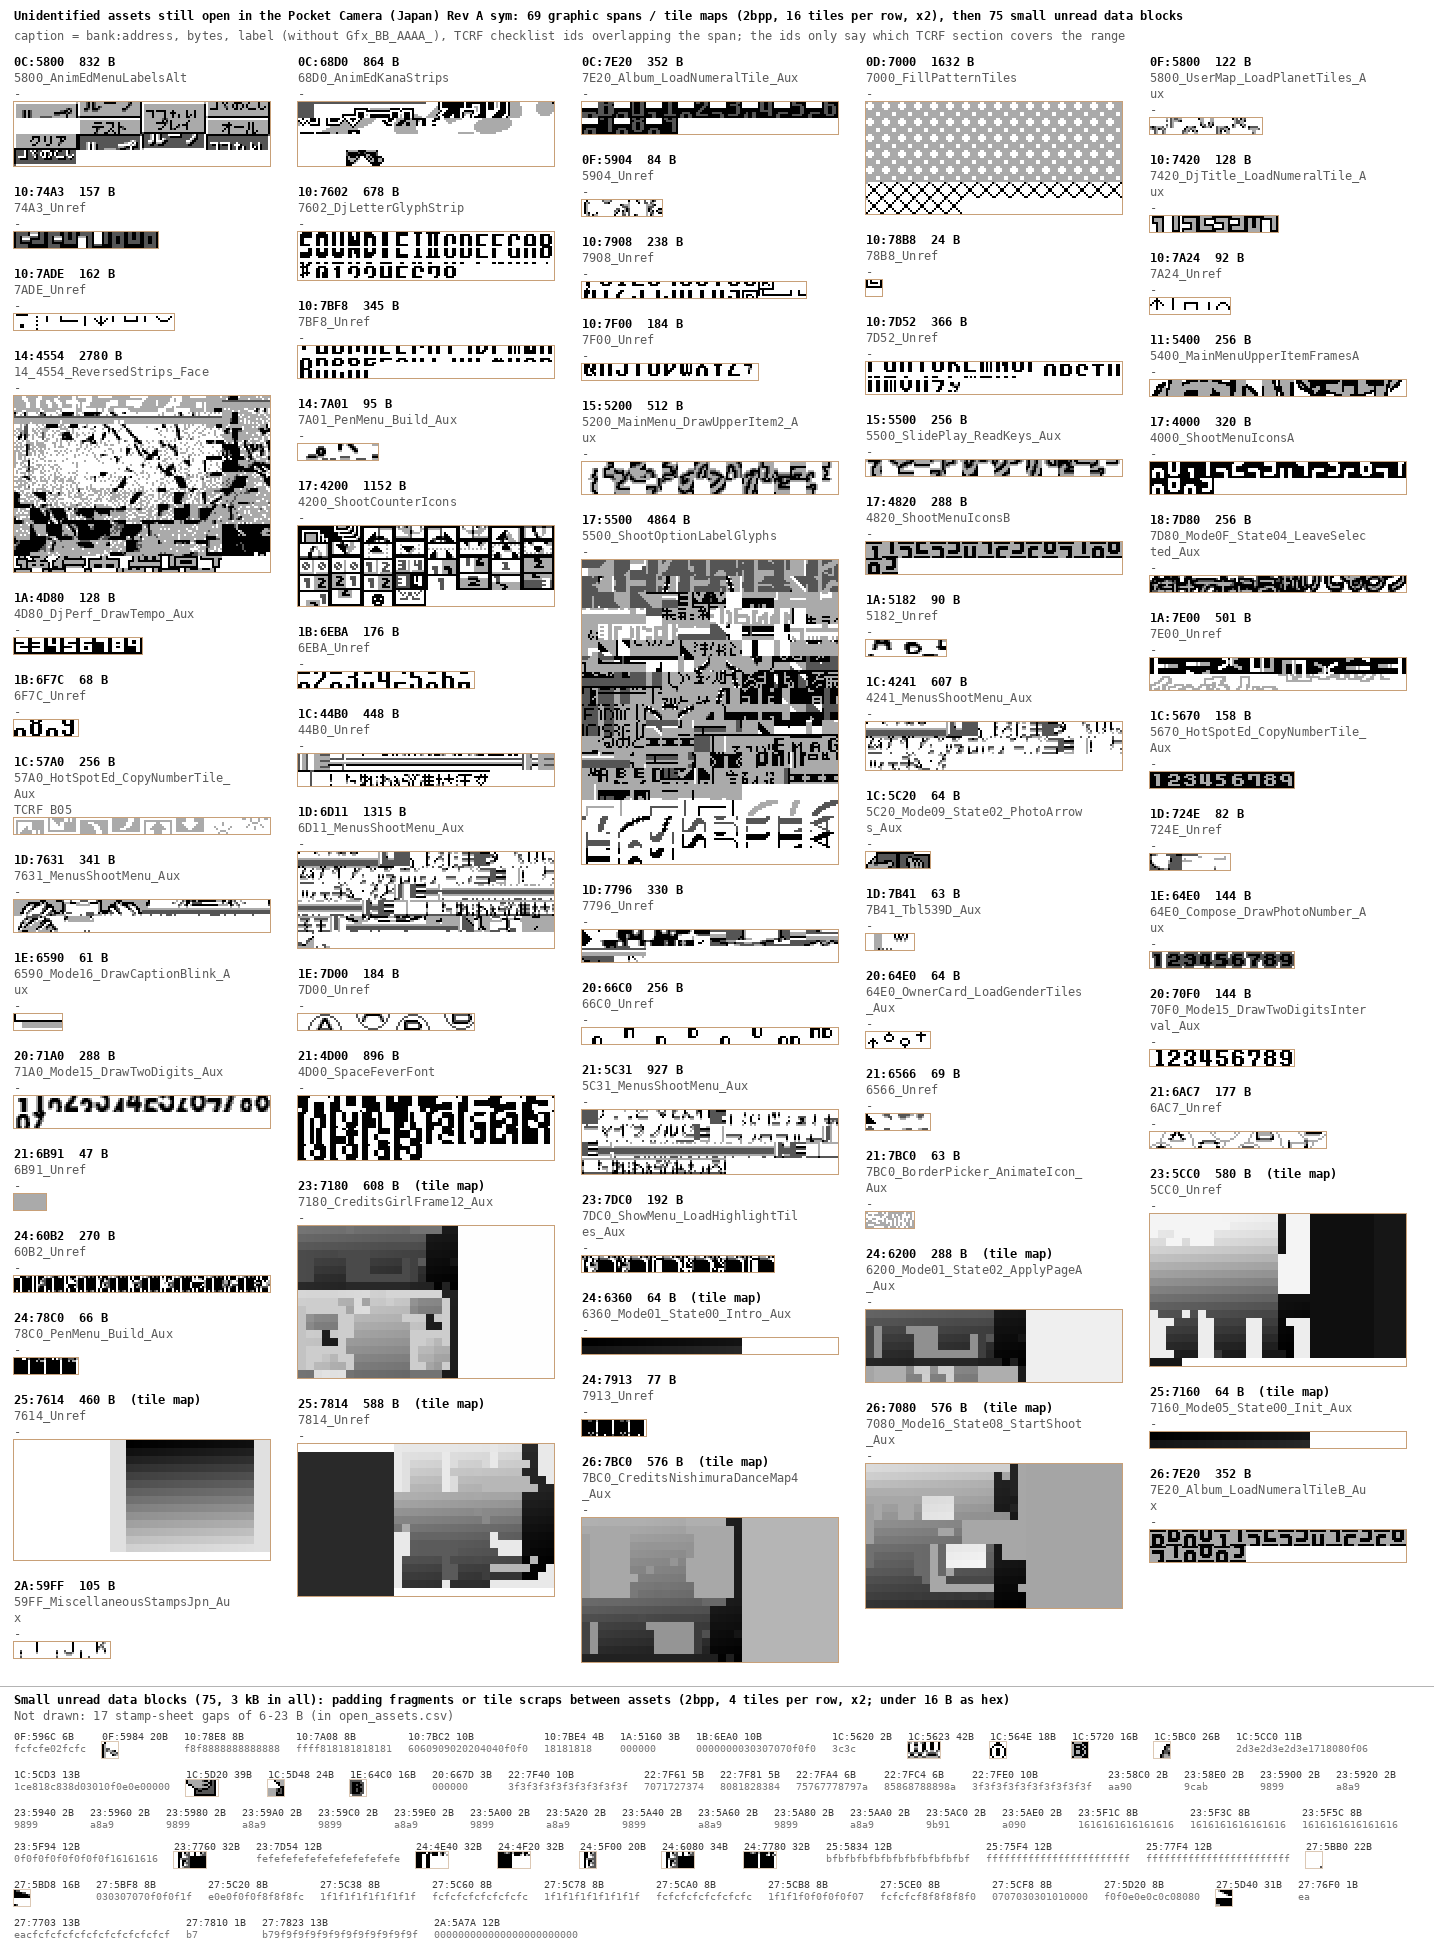
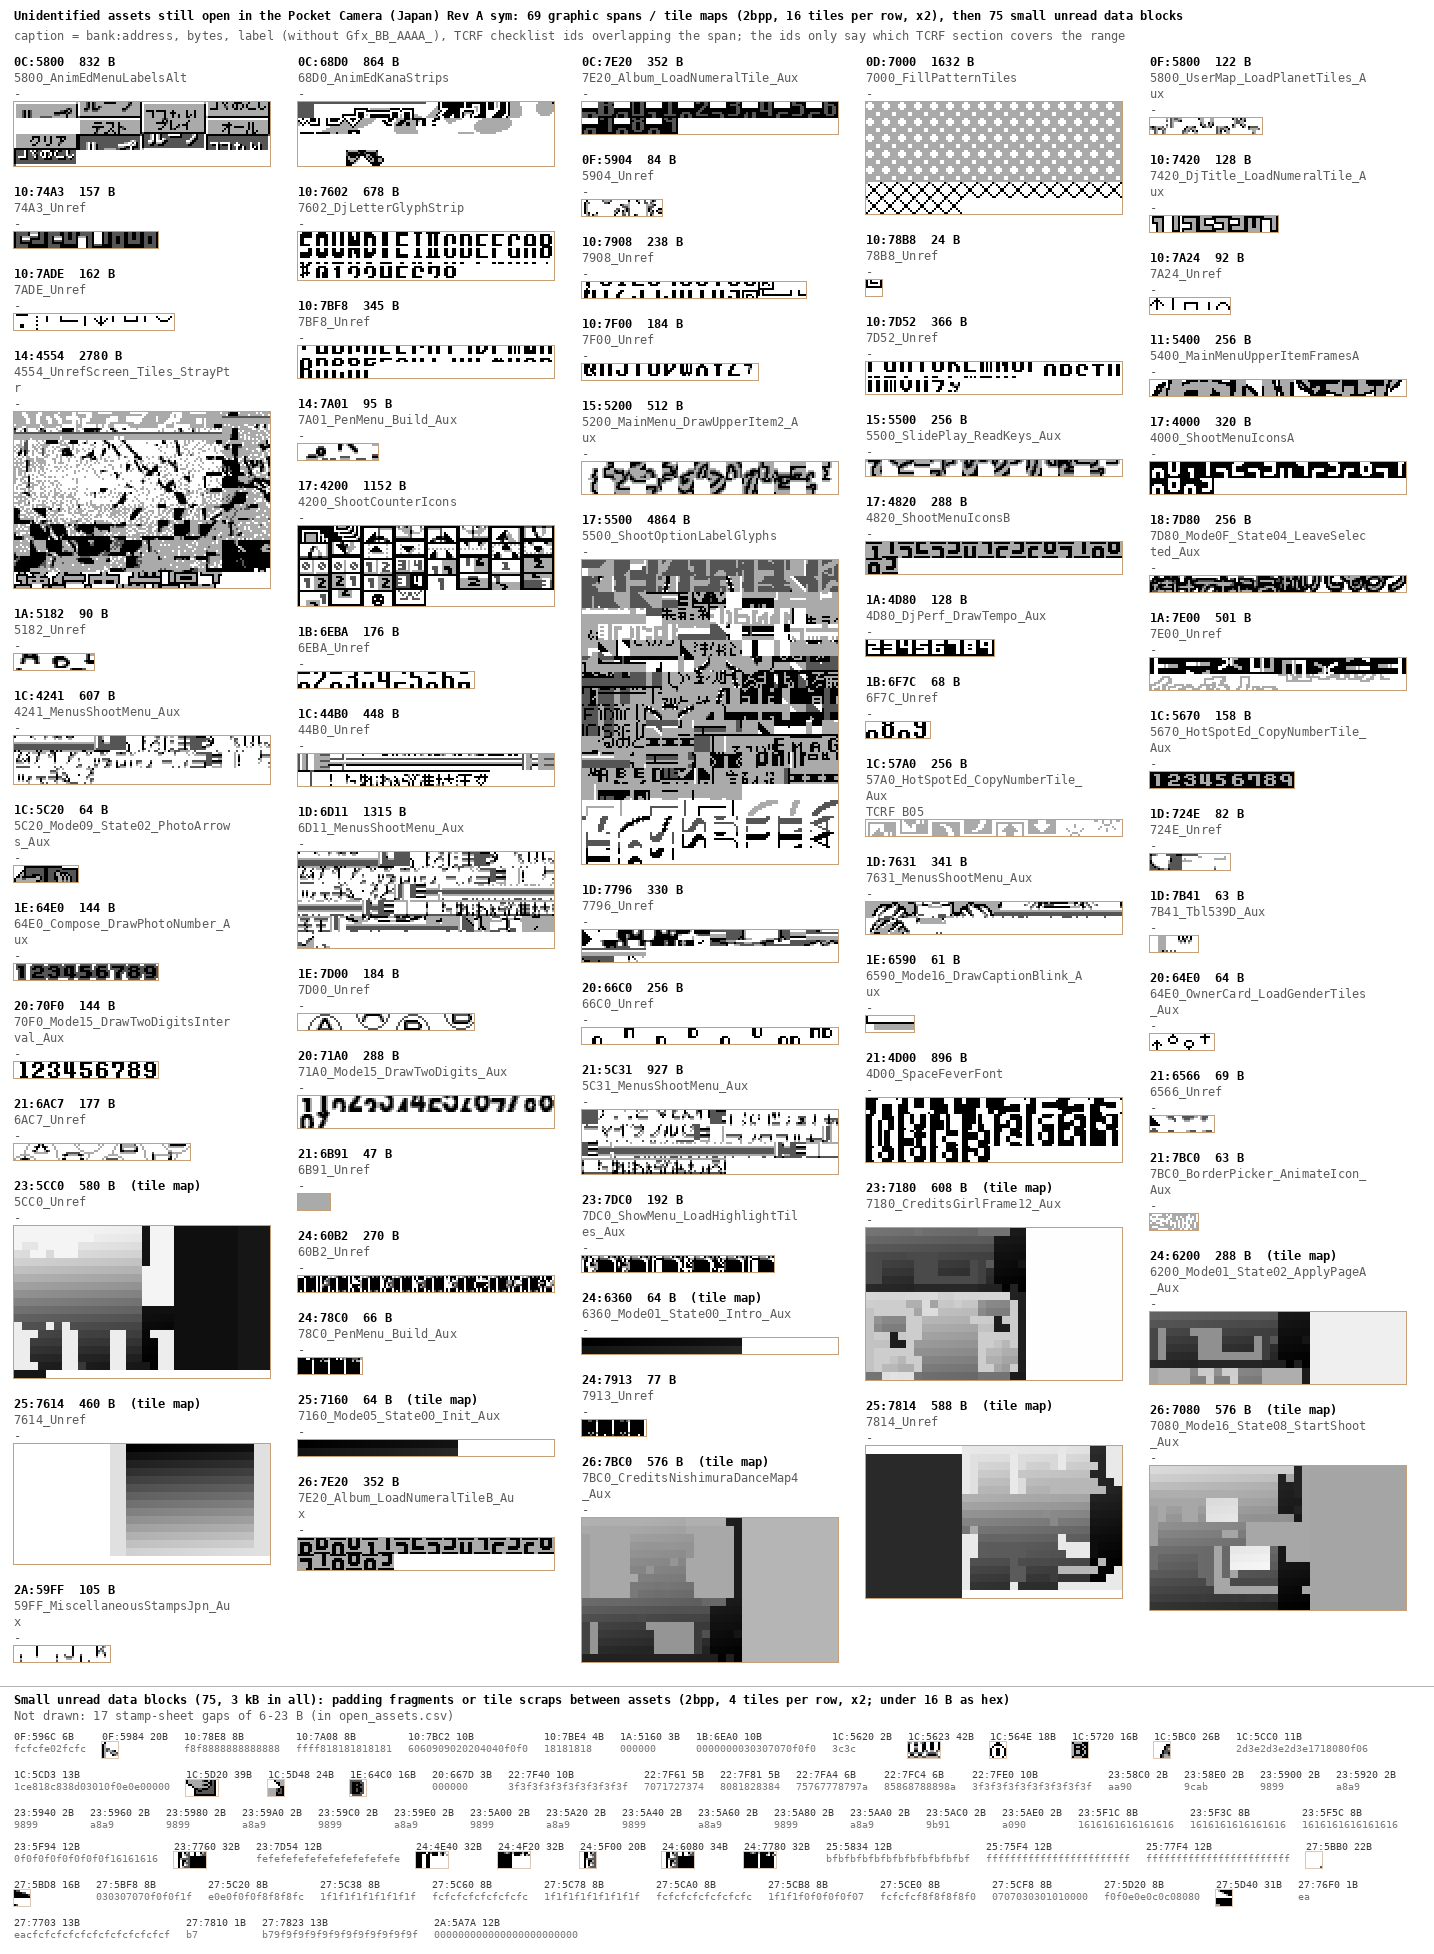
14:4000-502F is the tile set of one unreferenced screen; its tile map is 23:5CC0
The strips / stepped-face readings were wrong: the tile list is de-duplicated, ids descend in raster order of first appearance
($F4 = solid black = 14:4F40), so repeated tiles made the stream skip cells. 23:5CC0 (Map_23_5CC0_Unref, 18 rows x 32 columns + 4 bytes) indexes
the 259 tiles directly and draws a manga panel over a grey band with "アイデアがいっぱい" and "任天堂" (23_5CC0_map_screen.png, map_23_5CC0_screen.py).
The 32 missing cells of the face's top were 25 x tile 244 and 7 tiles already stored. Tiles 245-258 (14:4F50-502F, heading row) are not used by
the map. No code loads the map or the tile set (no ld hl,$5CC0 with bank $23, no pointer); the 36 forced-run "on screen" tiles are probably value matches.
Labels 14:4000 / 14:4554 renamed Gfx_*_UnrefScreen_Tiles*, 23:5CC0 typed as a 32-wide map. Old rearrange script and its two PNGs removed.

Claude-Session: https://claude.ai/code/session_01FyVRmHfUqNeQ8ayUFB5i6z

Changed region(s): [[0.583, 0.3122, 0.9819, 0.8429], [0.0, 0.1873, 0.3989, 0.8429], [0.0, 0.8117, 0.0921, 0.8429]]

diff --git a/tcrf_check/tools/map_23_5CC0_screen.py b/tcrf_check/tools/map_23_5CC0_screen.py
@@ -1,0 +1,38 @@
+#!/usr/bin/env python3
+"""Draw the unreferenced screen of the tile set 14:4000-502F with its tile map 23:5CC0.  README 16.24 "(3) The small holes".
+
+23:5CC0-5F03 (580 bytes) is a BG tile map: 18 rows x 32 columns (576 bytes) + 4 trailing $16 bytes.  Its tile ids index the 259 tiles at 14:4000
+directly (id = (address - 14:4000) / 16, checked on the picture: the seams of every neighbouring tile pair match).  Columns 0-19 are the visible screen;
+columns 20-27 are $0F (grey) and 28-31 are $16 (white).  The tile set is a de-duplicated tile list: ids DEscend in raster order of first appearance
+($F4 = a solid black tile, the first tile of the picture, then $F3, $F2, ... for every new tile, repeats such as $F4, $0F, $16, $ED reuse their id),
+which is why a reading of 14:4000-502F as raster strips (width 16, 17, 10 ...) found only fragments.  Ids 245-255 (and the 3 tiles after them, which no
+8-bit id can reach) are not used by this map: 14:4F50-502F, the 14-tile "heading row" of outlined kanji.
+Not a console capture: a direct draw of ROM bytes with a 4-grey palette; no code loads this map (README 16.24).
+usage: map_23_5CC0_screen.py [ROM] [out.png]   (default ROM /home/claude/gbcam_jp/pocketcamera_jp.gb, env GBCAM_ROM, GBCAM_REPO)
+"""
+import sys, os
+import numpy as np
+from PIL import Image
+REPO = os.environ.get('GBCAM_REPO', os.path.dirname(os.path.dirname(os.path.dirname(os.path.abspath(__file__)))))
+ROMF = sys.argv[1] if len(sys.argv) > 1 else os.environ.get('GBCAM_ROM', '/home/claude/gbcam_jp/pocketcamera_jp.gb')
+OUT = sys.argv[2] if len(sys.argv) > 2 else REPO + '/tcrf_check/assets/unidentified/23_5CC0_map_screen.png'
+rom = np.frombuffer(open(ROMF, 'rb').read(), dtype=np.uint8)
+def off(bank, addr): return bank * 0x4000 + (addr - 0x4000)
+TILES, NT = off(0x14, 0x4000), 259
+MAP = off(0x23, 0x5CC0)
+PAL = np.array([255, 170, 85, 0], np.uint8)
+def tile(i):
+    t = np.zeros((8, 8), np.uint8)
+    for y in range(8):
+        b0 = int(rom[TILES + 16 * i + 2 * y]); b1 = int(rom[TILES + 16 * i + 2 * y + 1])
+        for x in range(8): t[y, x] = ((b1 >> (7 - x)) & 1) << 1 | ((b0 >> (7 - x)) & 1)
+    return t
+T = [tile(i) for i in range(NT)]
+M = np.array([rom[MAP + 32 * r:MAP + 32 * r + 32] for r in range(18)])
+ROWS, COLS, SC = 18, 20, 6
+img = np.zeros((ROWS * 8, COLS * 8), np.uint8)
+for r in range(ROWS):
+    for c in range(COLS): img[r * 8:r * 8 + 8, c * 8:c * 8 + 8] = PAL[T[M[r, c]]]
+Image.fromarray(img).resize((COLS * 8 * SC, ROWS * 8 * SC), Image.NEAREST).save(OUT)
+used = sorted(set(int(x) for x in M.ravel()))
+print(OUT, 'distinct ids', len(used), 'unused tiles', [s for s in range(NT) if s not in used][:3], '...', 'trailing', rom[MAP + 576:MAP + 580].tolist())

diff --git a/README.md b/README.md
@@ -3116,7 +3116,7 @@ Table (one row per box of the charts; the node ids are the keys of `assets/guide
 
 **(2) `$2A` and `$28`: glyph banks (I).** `2A:4000-7FFF` is a glyph set: kana and ASCII glyph tiles in a small font (`tcrf_check/assets/never_read/bank2A_glyphs_*.png`, the never-read tiles tinted red). The red ones are, by eye, rows of voiced and semi-voiced katakana (ガ ギ グ ゲ ゴ … パ ピ プ ペ ポ forms, `bank2A_unread_katakana_7060-7440.png`) and of Latin letters (`bank2A_unread_latin_75D1-7A24.png`); individual glyphs were not listed. The sheet "Stamps (JPN)" (ripped by rabidrodent) matches 2,379 windows of `2A:5FFA-7886`, and 2,045 of the 2,663 untouched bytes of `$2A` (padding included) lie in windows that match it; the sheet brackets its small-font block (kana, ASCII) with the question "**Unused?**". Reading: this font block is real data whose tiles are not all drawn by the paths that were run; the sheet's question mark is the ripper's, not a finding. `28:4000-5FFF` is white-on-black Japanese text (`bank28_text_glyphs_4000-5FFF.png`, the red part is more kana text); the second half of `$28` is the credits ending picture ("Don't butter me up! Be happy!!"), which is read.
 
-**(3) The small holes (I).** In `$10` (20 B), `$17` (15 B), `$19` (16 B), `$1A` (31 B), `$1C` (78 B), `$1E` (11 B) the never-read bytes are 1-byte to 31-byte runs (a 64-byte run at `1C:5160-519F` is small icon tiles) that sit between organic reads by the generic copier `00:17E8` on both sides: bytes of tile blocks of which only some tiles are loaded. The only larger area is bank `$14`: `14:4000-502F` (259 tiles) is **not one picture and not 16 tiles wide as first read** (`bank14_banner_4000-47FF_16wide.png` is the wrong width). It is a stack of tile strips of different widths, **each stored with its tile order reversed** (the last tile of a strip is its top-left tile; the tiles themselves are not flipped: tile `s` has tile `s+1` on its left and tile `s+W` above it). Rearranged by edge continuity (width scan on the seams, then reading the result; `tcrf_check/assets/unidentified/14_4000_strips_rearranged.png`, 2026-10-13, asked by the owner): `14:4720-4F1F` is a clean **dithered manga picture, 16 tiles wide, in two pieces** (a face close-up, a second face shouting at the right; `tcrf_check/assets/unidentified/14_4720_face_reassembled.png`, rebuilt the same day at the owner's request): `14:4720-4D1F` (96 tiles) is a plain 6-row x 16 reversed block (`face[r][c] = 209 - 16r - c`), and `14:4D20-4F1F` (32 tiles) is **not** its two top rows (read that way the seams cost 7-13 per 8-pixel tile edge) but a narrower piece pinned to the right edge, rows of 11, 10, 6 and 5 tiles from the bottom up (found with a right-aligned dynamic programme on the seam costs; all vertical seams of the 10 rows cost 2.2-5.4 per 8-pixel edge, random pairs about 9.6, an 11-wide reading of the same 32 tiles 10.3 on its top row; the row lengths are the best reading, the tiles left of the steps are not in the block and are drawn flat blue; evidence I); `14:4440-465F` a **katakana line** ("アイデアがい…", white on grey, 17 tiles wide x 2 rows, width the best reading); `14:4000-43BF` a **block of large black kanji** ("任天…", 10 tiles wide x 6 rows); `14:4F20-502F` a **heading row of 17 outlined kanji tiles in forward order** (the one strip that is not reversed, cost 69 against 144 reversed); `14:5030-57FF` is zero padding. The widths of the two text strips are the best reading, not proven, and where the strips meet (`14:4620-471F`, a grey row with white fragments) is not settled. The only code that read the area is the thumbnail reducer through the nibble expander `00:289C` (table at `00:36F0`), and it starts at `14:4554`, **not on a tile boundary** (`4554 mod 16 = 4`, while the picture's grid sits on `$xxx0`): the three bytes `54 45 54` at `02:527B` (inside the OAM pointer table at `02:5272`, read as entry 33 of the 30-entry `AlbumB_SlotTbl`, i.e. a photo number `$3F` reaching `Photo_GetSramAddress_Far`) decode to address `$4554`, bank `$54` = `$14` on the 6-bit mapper. So the read is a stray pointer (consistent with the start offset, not traced to the caller), and the display tracker follows these bytes to the screen for up to 21,196 frames (19,610 in organic runs) **only as a reduced thumbnail built by that reducer**, never as tiles: no code was seen that shows the strips themselves (I).
+**(3) The small holes (I).** In `$10` (20 B), `$17` (15 B), `$19` (16 B), `$1A` (31 B), `$1C` (78 B), `$1E` (11 B) the never-read bytes are 1-byte to 31-byte runs (a 64-byte run at `1C:5160-519F` is small icon tiles) that sit between organic reads by the generic copier `00:17E8` on both sides: bytes of tile blocks of which only some tiles are loaded. The only larger area is bank `$14`: `14:4000-502F` (259 tiles) is **the tile set of one unreferenced full screen, and its tile map is `23:5CC0-5F03`** (580 B, already labelled `Map_23_5CC0_Unref`; found 2026-10-13 at the owner's request, who asked for the missing tiles and a tile map; the first readings of this area as raster strips, then as a 16 x 8 picture with a stepped top, were wrong: they were reading a de-duplicated tile list). The map is **18 rows x 32 columns (576 B) + 4 trailing `$16` bytes**; its ids index the 259 tiles at `14:4000` directly (id = (address - `14:4000`) / 16; every neighbouring tile pair seams, checked on the picture); columns 0-19 are the visible 20 x 18 screen, columns 20-27 are `$0F` (grey) and 28-31 `$16` (white). Drawn with those tiles (`tcrf_check/assets/unidentified/23_5CC0_map_screen.png`, tool `tcrf_check/tools/map_23_5CC0_screen.py`; a direct draw of ROM bytes in four greys, not a console capture) it is a dithered manga panel (a face close-up and a second face shouting at the right) over a grey band that reads "アイデアがいっぱい" in white katakana and "任天堂" in large black kanji (glyphs read by eye). **The tile ids descend in raster order of first appearance**: `$F4` (tile 244 at `14:4F40`, a solid black tile, the first tile of the picture) is followed by `$F3`, `$F2`, ... for every tile seen for the first time, while repeats reuse their id (`$F4` x 65, `$0F` x 145, `$16` x 72, `$ED` x 47, and `$10`, `$17`, `$38`, `$40` a few times); 245 distinct ids = tiles 0-244, all used. That is why the area looked like reversed strips of different widths (6 x 16 for the picture, 10 and 17 for the text): wherever a tile repeats, the stream skips a cell. In the 32 cells that my stepped reading of the picture's top had left empty, 25 are tile 244 and 7 are tiles that were already stored (`$F3` and `$F2` at row 0 columns 9-10, `$E6` and `$E5` at row 2 columns 1-2, `$DC`, `$DB` and `$DA` at row 3 columns 0, 1 and 4): five of the stepped reading's 32 tiles were placed wrong. Not used by this map: tiles 245-258 (`14:4F50-502F`, 14 outlined kanji tiles in forward order, a heading row; ids 256-258 cannot be reached by an 8-bit id), whose own map, if any, is not found. `14:5030-57FF` is zero padding. **No code loads the map or the tile set**: no `ld hl,$5CC0` with bank `$23` and no `{C0 5C 23}` pointer exists in the ROM (the six byte hits of `C0 5C` are two bank-`$0C` loads, `03:56A8` and `03:5D47`, and four coincidences inside graphics, map and data banks), and no `{00 40 14}` pointer either (I; a pointer built another way would not be found); the display tracker's 36 stable "on screen" tiles of `23:5CC0` in forced runs (copier `00:17E8`) are probably value matches, because the span is mostly runs of `$0F`, `$16` and `$F4` (not checked). The only code that read the tile set is the thumbnail reducer through the nibble expander `00:289C` (table at `00:36F0`), and it starts at `14:4554`, **not on a tile boundary** (`4554 mod 16 = 4`, while the tile grid sits on `$xxx0`): the three bytes `54 45 54` at `02:527B` (inside the OAM pointer table at `02:5272`, read as entry 33 of the 30-entry `AlbumB_SlotTbl`, i.e. a photo number `$3F` reaching `Photo_GetSramAddress_Far`) decode to address `$4554`, bank `$54` = `$14` on the 6-bit mapper. So the read is a stray pointer (consistent with the start offset, not traced to the caller), and the display tracker follows these bytes to the screen for up to 21,196 frames (19,610 in organic runs) **only as a reduced thumbnail built by that reducer**, never as tiles (I).
 
 **(4) `$25`, `$26`, `$27`: BG tilemaps (I).** The untouched ranges are 32-byte rows in the format of the maps copied to `$9800` (`assets/catalog_jp.csv`): fill tiles (`$FE`, `$FF`, `$FD`) and the 16-wide photo ramp (`00-0F`, `10-1F`, … 14 rows, wrapping at `$80`) with icons at the sides, e.g. `25:4B80`: `ffffffff 000102030405060708090a0b0c0d0e0f ffffffffff fefe…`. `25:4A80-4DBF` sits between the maps copied from `25:47C0` and `25:4DC0`; `27:4772-486F` is a run of blank `$FD` rows right before the map copied from `27:4870`; the first two rows (tile ramp `00-27`, 20 wide) of the maps at `25:5080` and `25:5320` are not read while their other rows are; `26:4500-487F` has no neighbour in the catalog. No copy site that loads these rows was found; the tile set they index was not identified, so they were not rendered as pictures. `27:4AA0-4CAF` is a small 2bpp tile set.
 
@@ -3680,7 +3680,7 @@ All eight starts equal the sym's `WildFrameN_Tiles`, and the 18 standard frames 
 |---|---|---|---|
 | TCRF label (`Unused_TCRF_*`) | 14 | 6,784 | spans that match a TCRF image (table below); display evidence per span in the CSV |
 | never on screen, never read organically | 24 (19 graphics, 5 tile maps) | 7,623 | no replay showed them, only forced runs read them |
-| on screen only when state is forced | 3 | 5,601 | `10:74A3`, `17:5500`, `23:5CC0`: probably not reachable on a real camera |
+| on screen only when state is forced | 3 | 5,601 | `10:74A3`, `17:5500`, `23:5CC0` (the tile map of the `14:4000` screen, §16.24 (3); the 36 tiles are probably value matches): probably not reachable on a real camera |
 | leftovers (`Data`, never shown, never read organically) | 44 | 460 | padding or tile slack |
 | read in play, never shown | 48 | 565 | small tables and tails |
 | on screen in normal play | 42 | 16,628 | listed as open, but used |

diff --git a/disasm/sym_unconclusive_jp.md b/disasm/sym_unconclusive_jp.md
@@ -34,7 +34,7 @@ _Why doubtful:_ identified from the picture and the neighbouring assets only; no
 | 0D:7000 | `Gfx_0D_7000_FillPatternTiles` | 1632 | dot, crosshatch and dither fill tiles plus a few glyph pieces | dot, crosshatch and dither fill tiles plus a few glyph pieces (visual); no direct pointer, probably indexed by |
 | 10:7602 | `Gfx_10_7602_DjLetterGlyphStrip` | 678 | Latin letter / digit glyph strip | Latin letter / digit glyph strip (visual); bank 10 also holds the DJ screens' numeral tiles at 7400-7420 |
 | 11:5400 | `Gfx_11_5400_MainMenuUpperItemFramesA` | 256 | gap inside the animation tiles of the main-menu upper item (neighbours Gfx_11_5300 / Gfx_11_5500 are loaded by MainMenu_ | gap inside the animation tiles of the main-menu upper item (neighbours Gfx_11_5300 / Gfx_11_5500 are loaded by |
-| 14:4554 | `Banner_14_4554_ReversedStrips_Face` | 2780 | rest of the reversed strips: 14:4554-46xx tail of the katakana line, 14:4720-4F1F a clean dithered manga picture, 16 til | rest of the reversed strips: 14:4554-46xx tail of the katakana line, 14:4720-4F1F a clean dithered manga pictu |
+| 14:4554 | `Gfx_14_4554_UnrefScreen_Tiles_StrayPtr` | 2780 | tiles 85 (from its 5th byte) to 258 of the same unreferenced screen (tile set 14:4000, map 23:5CC0). Only reader seen: t | tiles 85 (from its 5th byte) to 258 of the same unreferenced screen (tile set 14:4000, map 23:5CC0). Only read |
 | 17:4000 | `Gfx_17_4000_ShootMenuIconsA` | 320 | icon row of the SHOOT-menu tile bank | icon row of the SHOOT-menu tile bank (visual); neighbours are loaded by Mode14_State00_Init |
 | 17:4200 | `Gfx_17_4200_ShootCounterIcons` | 1152 | digit / counter / clock icons (1 2 3 4, 1 2 2 1) of the SHOOT screens | digit / counter / clock icons (1 2 3 4, 1 2 2 1) of the SHOOT screens (visual); neighbours Shoot_LoadBurstIcon |
 | 17:4820 | `Gfx_17_4820_ShootMenuIconsB` | 288 | icon strip between Compose_DrawFreeCount and Mode14_State00_Init sets | icon strip between Compose_DrawFreeCount and Mode14_State00_Init sets (visual) |
